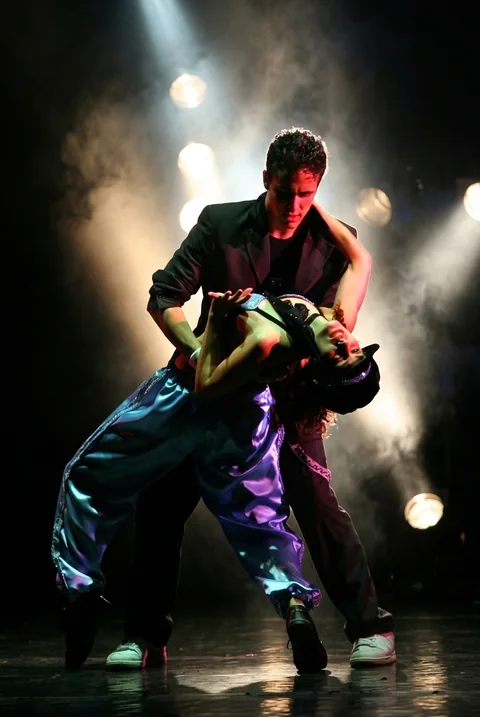
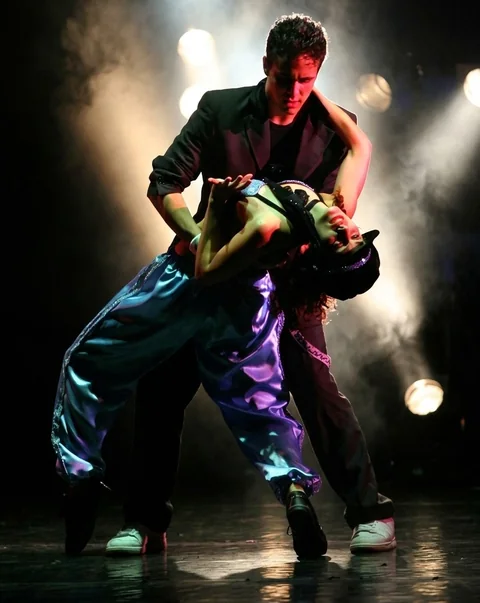
design: ritaglia la foto home sopra la testa, rifinisce posizione Lucrezia, evita l'andata a capo del sottotitolo e rimuove la linea residua accanto alle foto insegnanti

diff --git a/src/faculty.css b/src/faculty.css
@@ -1,10 +1,10 @@
 .faculty{background:var(--paper);color:var(--ink)}
 .faculty-heading{width:min(100%,1000px);display:grid;grid-template-columns:minmax(0,1.45fr) minmax(260px,.55fr);gap:50px;align-items:end;padding-bottom:clamp(20px,2.5vw,34px);margin:0 auto clamp(40px,5vw,60px);border-bottom:1px solid var(--ink)}
 .faculty-heading h2{font-family:Montserrat,Arial,sans-serif;font-size:clamp(32px,3.6vw,55px);font-weight:700;line-height:.78;letter-spacing:normal}.faculty-heading p{max-width:310px;font-size:15px;line-height:1.55}
-.faculty-selector{width:min(100%,1000px);margin:0 auto;display:grid;grid-template-columns:minmax(350px,.88fr) minmax(0,1.12fr);align-items:start}.faculty-list{min-width:0;border-right:1px solid var(--ink);display:grid;grid-template-columns:1fr 1fr}.faculty-list .godui-accordion__item:nth-child(2n){border-left:1px solid var(--line)}
+.faculty-selector{width:min(100%,1000px);margin:0 auto;display:grid;grid-template-columns:minmax(350px,.88fr) minmax(0,1.12fr);align-items:start}.faculty-list{min-width:0;display:grid;grid-template-columns:1fr 1fr}.faculty-list .godui-accordion__item:nth-child(2n){border-left:1px solid var(--line)}
 .godui-accordion__item{border-bottom:1px solid var(--line)}.godui-accordion__item h3{margin:0}.godui-accordion__trigger{display:block;width:100%;padding:10px 18px;text-align:left;outline:0}.faculty-row{position:relative;display:block;min-height:74px}.faculty-row__name{display:flex;align-items:center;min-height:74px;font-size:clamp(16px,1.3vw,22px);transition:transform .32s ease}.faculty-row__line{position:absolute;left:0;bottom:-11px;width:0;height:3px;background:var(--pink);transition:width .38s cubic-bezier(.22,1,.36,1)}.godui-accordion__trigger:hover .faculty-row__name,.godui-accordion__trigger:focus-visible .faculty-row__name,.godui-accordion__item[data-open=true] .faculty-row__name{transform:translateX(8px)}.godui-accordion__trigger:hover .faculty-row__line,.godui-accordion__trigger:focus-visible .faculty-row__line,.godui-accordion__item[data-open=true] .faculty-row__line{width:72px}.godui-accordion__trigger:focus-visible{box-shadow:inset 4px 0 0 var(--acid)}.godui-accordion__panel{display:none}
 .teacher-name{display:flex;flex-direction:column;gap:.08em;line-height:.95}.teacher-name__given{display:block;font-weight:500;white-space:nowrap}.teacher-name__surname{display:block;font-weight:500;letter-spacing:0;color:var(--ink);white-space:nowrap}.godui-accordion__trigger:hover .teacher-name__given,.godui-accordion__trigger:focus-visible .teacher-name__given,.godui-accordion__item[data-open=true] .teacher-name__given{font-weight:800}
 .faculty-preview{position:sticky;top:136px;height:600px;background:var(--ink);overflow:hidden}.faculty-preview__frame,.faculty-profile{height:100%;display:grid;grid-template-rows:minmax(0,1fr) auto}.faculty-photo{position:relative;min-height:0;margin:0;overflow:hidden;background:var(--ink)}.faculty-photo img{width:100%;height:100%;object-fit:cover;object-position:var(--teacher-position,50% 50%)}.faculty-photo figcaption{position:absolute;z-index:2;top:14px;right:14px;padding:7px 9px;background:var(--paper);color:var(--ink);font-size:9px}.faculty-preview__identity{position:relative;z-index:2;padding:22px 25px 25px;display:grid;grid-template-columns:1.2fr 1fr;gap:22px;align-items:end;background:var(--ink);color:#fff}.faculty-preview__identity strong{font-size:clamp(31px,3.2vw,47px);line-height:.88}.faculty-preview__identity span{font-size:13px;line-height:1.4;color:#d7d7d7}.faculty-mobile-profile,.faculty-disclosure{display:none}
 .faculty-empty{height:100%;padding:34px;display:flex;flex-direction:column;justify-content:flex-end;gap:14px;background:var(--ink);color:#fff}.faculty-empty strong{max-width:420px;font-size:clamp(42px,4.5vw,66px);line-height:.85;letter-spacing:-.06em}.faculty-empty span{max-width:340px;font-size:14px;line-height:1.5;color:#b7b7b7}
-@media(max-width:820px),(hover:none){.faculty-heading{display:block;margin-bottom:55px}.faculty-heading h2{font-size:32px}.faculty-heading p{margin-top:30px;max-width:500px}.faculty-selector{display:block}.faculty-mobile-profile{display:block}.faculty-profile--mobile{height:auto;display:block}.faculty-photo--mobile{height:min(110vw,480px)}.faculty-profile--mobile .faculty-preview__identity{display:block;padding:22px}.faculty-profile--mobile .faculty-preview__identity span{display:block;margin-top:10px}.faculty-disclosure{width:100%;min-height:68px;padding:18px 0;display:flex;align-items:center;justify-content:space-between;border-top:1px solid var(--ink);border-bottom:1px solid var(--ink);font-weight:800;text-align:left}.faculty-disclosure i{font-size:27px;font-style:normal}.faculty-list{border-right:0;grid-template-columns:1fr}.faculty-list .godui-accordion__item:nth-child(2n){border-left:0}.faculty-list[data-mobile-open=false]{display:none}.godui-accordion__trigger{padding:18px 0}.faculty-row{min-height:92px}.faculty-row__name{min-height:92px;font-size:clamp(20px,6vw,28px)}.faculty-row__line{bottom:-19px}.faculty-preview{display:none}}
+@media(max-width:820px),(hover:none){.faculty-heading{display:block;margin-bottom:55px}.faculty-heading h2{font-size:32px}.faculty-heading p{margin-top:30px;max-width:500px}.faculty-selector{display:block}.faculty-mobile-profile{display:block}.faculty-profile--mobile{height:auto;display:block}.faculty-photo--mobile{height:min(110vw,480px)}.faculty-profile--mobile .faculty-preview__identity{display:block;padding:22px}.faculty-profile--mobile .faculty-preview__identity span{display:block;margin-top:10px}.faculty-disclosure{width:100%;min-height:68px;padding:18px 0;display:flex;align-items:center;justify-content:space-between;border-top:1px solid var(--ink);border-bottom:1px solid var(--ink);font-weight:800;text-align:left}.faculty-disclosure i{font-size:27px;font-style:normal}.faculty-list{grid-template-columns:1fr}.faculty-list .godui-accordion__item:nth-child(2n){border-left:0}.faculty-list[data-mobile-open=false]{display:none}.godui-accordion__trigger{padding:18px 0}.faculty-row{min-height:92px}.faculty-row__name{min-height:92px;font-size:clamp(20px,6vw,28px)}.faculty-row__line{bottom:-19px}.faculty-preview{display:none}}
 @media(prefers-reduced-motion:reduce){.faculty-row__name,.faculty-row__line,.faculty-preview__frame{transition:none!important;transform:none!important;clip-path:none!important;opacity:1!important}}

diff --git a/src/styles.css b/src/styles.css
@@ -20,7 +20,7 @@ a:hover>.arrow,a:focus-visible>.arrow{transform:translate(4px,-4px)}
 .brand{width:150px;height:72px;display:grid;place-items:center}.brand img{width:100%;height:100%;object-fit:contain}.desktop-nav{display:flex;gap:clamp(24px,3vw,54px);margin-left:auto;margin-right:clamp(26px,3vw,58px);font-size:15px}.desktop-nav a{padding:14px 0}.nav-cta{min-height:54px;display:flex;align-items:center;gap:18px;background:var(--acid);color:var(--ink);padding:16px 20px;font-size:15px;font-weight:700}.menu-toggle,.mobile-nav{display:none}
 .hero{min-height:900px;background:var(--ink);color:white;display:grid;grid-template-columns:50fr 50fr;padding-top:110px}.hero-copy{padding:60px var(--pad) 55px calc(var(--pad) + 60px);display:flex;flex-direction:column;justify-content:space-between;min-width:0}
 .hero-title{font-family:Montserrat,Arial,sans-serif;font-size:clamp(20px,2.9vw,60px);font-weight:700;letter-spacing:-.01em;line-height:.9;max-width:1180px;width:100%;white-space:nowrap}.hero-title__line{display:block;overflow:hidden;padding-bottom:.1em}.hero-title__line>span{display:block}.hero-title__line--accent{color:var(--acid);font-weight:800;font-size:1.3em;letter-spacing:-.01em;padding-bottom:.22em}.hero-title__line:first-child{font-size:.5em;margin-bottom:.12em;letter-spacing:0;word-spacing:.2em}
-.hero-subtitle{margin-top:6px;font-size:clamp(15px,1.85vw,28px);font-weight:700;line-height:1.25;color:#fff}
+.hero-subtitle{margin-top:6px;font-size:clamp(15px,1.85vw,28px);font-weight:700;line-height:1.25;color:#fff;white-space:nowrap}
 .hero-direction{max-width:640px;margin-top:30px;padding-top:26px;border-top:1px solid #555;display:flex;flex-wrap:wrap;align-items:baseline;gap:6px 8px;font-size:clamp(14px,1.4vw,19px);font-weight:700;letter-spacing:0;line-height:1.3;color:#fff}
 .hero-direction>span{font-weight:700;color:var(--acid)}
 .hero-actions{display:flex;align-items:center;gap:32px}.button{min-height:58px;padding:16px 20px;display:inline-flex;align-items:center;justify-content:space-between;gap:35px;font-weight:700}.button--acid{background:var(--acid);color:var(--ink)}.text-action{display:flex;align-items:center;gap:15px;border-bottom:1px solid #777;padding:15px 0;font-size:14px}

diff --git a/src/content.js b/src/content.js
@@ -27,7 +27,7 @@ const studioPlaceholder = placeholder('studio', [480, 900, 1100], 1100, 1650);
 const homeHero = {
   src: '/images/home-hero-832.webp',
   srcSet: [480, 832].map(size => `/images/home-hero-${size}.webp ${size}w`).join(', '),
-  width: 832, height: 1243, alt: 'Coppia di ballerini della Crazy Gang School in scena.', caption: '',
+  width: 832, height: 1045, alt: 'Coppia di ballerini della Crazy Gang School in scena.', caption: '',
   position: '50% 28%', mobilePosition: '50% 28%',
 };
 export const photos = {
@@ -64,7 +64,7 @@ const teacher = (id, given, surname, role, width, height, position = '50% 50%', 
 export const faculty = [
   teacher('marco-stopponi', 'Marco', 'Stopponi', 'Coreografo, insegnante, direttore artistico', 312, 305),
   teacher('stefano-stopponi', 'Stefano', 'Stopponi', 'Coreografo, insegnante, direttore artistico', 744, 872, '50% 50%', true),
-  teacher('lucrezia-stopponi', 'Lucrezia', 'Stopponi', 'Ballerina, insegnante Danza Moderna', 995, 1072, '50% -5%', true),
+  teacher('lucrezia-stopponi', 'Lucrezia', 'Stopponi', 'Ballerina, insegnante Danza Moderna', 995, 1072, '50% 3%', true),
   teacher('claudio-salvatori', 'Claudio', 'Salvatori', 'Insegnante Danza Moderna', 960, 960),
   teacher('dina-serri', 'Dina', 'Serri', 'Insegnante Danza Moderna', 1000, 1023),
   teacher('giulia-segneri', 'Giulia', 'Segneri', 'Insegnante Danza Moderna', 862, 1178),
